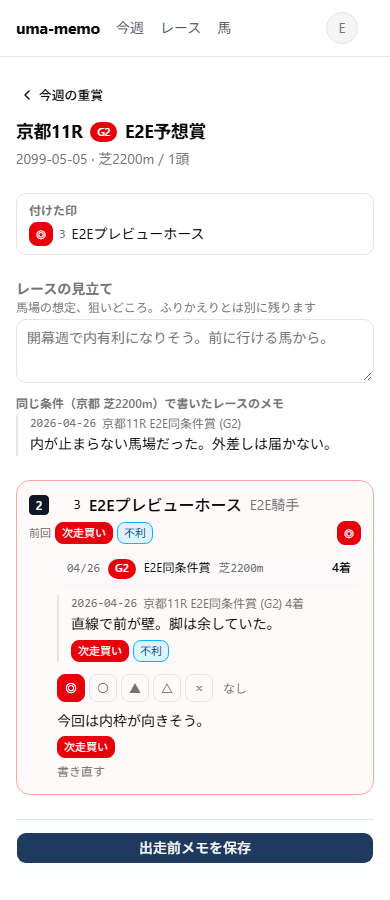
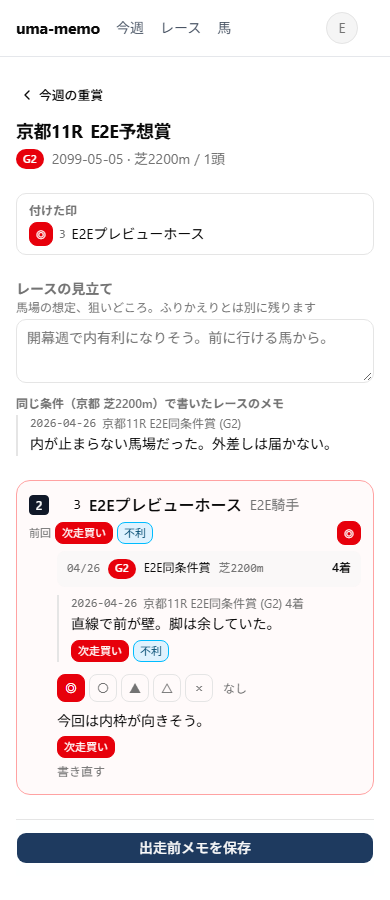
fix: レースの見出しと共有ページの札は元の位置に戻し、一覧の行だけ名前の前にする
1レースを開いた画面の見出し（ふりかえり・予想）と共有ページは並ぶ行ではないので、
札の位置は従来どおりにする。名前の前にそろえるのは、ダッシュボード・今週の重賞・
レース一覧・馬柱の行だけ。

Changed region(s): [[0.0308, 0.1244, 0.5231, 0.1867], [0.5231, 0.1556, 0.5846, 0.1867]]

diff --git a/src/lib/components/RaceHeading.svelte.spec.ts b/src/lib/components/RaceHeading.svelte.spec.ts
@@ -5,8 +5,8 @@ import '../../routes/layout.css';
 
 /**
  * 見出しはスマホ幅（320px）で崩れないことが要件。
- * レース名が長くても1行目の高さが変わらず、重賞の札がレース名の前に
- * 1行目のまま残ることを、実ブラウザ上の寸法で見る。
+ * レース名が長くても1行目の高さが変わらず、重賞の札が1行目に
+ * 混ざらないことを、実ブラウザ上の寸法で見る。
  */
 const PHONE = 320;
 
@@ -28,9 +28,7 @@ function h1() {
 }
 
 function spans() {
-	const [meeting] = Array.from(h1().children) as HTMLElement[];
-	const name = h1().querySelector<HTMLElement>('.truncate');
-	if (!name) throw new Error('レース名が無い');
+	const [meeting, name] = Array.from(h1().querySelectorAll('span'));
 	return { meeting, name };
 }
 
@@ -39,7 +37,7 @@ function badge() {
 }
 
 describe('RaceHeading', () => {
-	it('長いレース名だけを … で詰め、開催と重賞の札は1行目に最後まで出す', () => {
+	it('長いレース名だけを … で詰め、開催は最後まで出し、重賞の札は2行目に回す', () => {
 		narrow();
 		render(RaceHeading, {
 			meeting: '2026-10-04 東京11R',
@@ -66,13 +64,12 @@ describe('RaceHeading', () => {
 		expect(meeting.scrollWidth).toBe(meeting.clientWidth);
 		expect(meeting.textContent).toBe('2026-10-04 東京11R');
 
-		// 札は1行目の中にいて、開催とレース名のあいだに並ぶ。
-		const g = badge()!.getBoundingClientRect();
-		expect(badge()?.textContent?.trim()).toBe('G2');
-		expect(g.top).toBeGreaterThanOrEqual(h1().getBoundingClientRect().top);
-		expect(g.bottom).toBeLessThanOrEqual(h1().getBoundingClientRect().bottom);
-		expect(g.left).toBeGreaterThanOrEqual(meeting.getBoundingClientRect().right);
-		expect(g.right).toBeLessThanOrEqual(name.getBoundingClientRect().left);
+		// 札の上端が見出しの下端より下にある＝別の行にいる。
+		const g = badge();
+		expect(g?.textContent?.trim()).toBe('G2');
+		expect(g!.getBoundingClientRect().top).toBeGreaterThanOrEqual(
+			h1().getBoundingClientRect().bottom
+		);
 	});
 
 	it('短いレース名は詰めない', () => {
@@ -98,6 +95,5 @@ describe('RaceHeading', () => {
 		});
 
 		expect(h1().textContent?.trim()).toBe('2026-10-04 東京8R');
-		expect(badge()).toBeNull();
 	});
 });

diff --git a/src/lib/components/RaceHeading.svelte b/src/lib/components/RaceHeading.svelte
@@ -8,8 +8,9 @@
 	 * 幅が足りないときに … で詰まるのはレース名だけで、開催は最後まで出す。
 	 * どのレースを開いているかは開催のほうで分かるため。
 	 *
-	 * 格の札は、どの画面とも同じく**レース名の前**に置く（product.md 第6章）。
-	 * 札は縮めないので、長い名前でも札が2行目に回ることはなく、詰まるのは名前だけ。
+	 * 重賞の札は1行目に置かない。スマホ幅だとレース名の長さ次第で札だけが
+	 * 2行目に回り、見出しの高さがレースごとに変わってしまうので、
+	 * はじめから2行目（スペック行）の先頭に固定する。
 	 */
 	let {
 		meeting,
@@ -30,15 +31,16 @@
 <div>
 	<h1 class="flex items-baseline gap-2 text-lg font-bold tracking-tight sm:text-xl">
 		<span class="shrink-0">{meeting}</span>
-		{#if grade}
-			<!-- 見出しの文字の大きさに引きずられず、ほかの画面と同じ札に見せる。 -->
-			<span class="shrink-0 self-center leading-none"><GradeBadge {grade} /></span>
-		{/if}
 		{#if name}
 			<span class="truncate" title={name}>{name}</span>
 		{/if}
 	</h1>
-	{#if spec}
-		<p class="mt-1 truncate text-sm text-muted-foreground">{spec}</p>
+	{#if grade || spec}
+		<p class="mt-1 flex items-center gap-2 text-sm text-muted-foreground">
+			<GradeBadge {grade} />
+			{#if spec}
+				<span class="truncate">{spec}</span>
+			{/if}
+		</p>
 	{/if}
 </div>

diff --git a/src/routes/notes/[id]/+page.svelte b/src/routes/notes/[id]/+page.svelte
@@ -12,8 +12,8 @@
 	 * 1件で閉じていること自体が「検索で辿り着けない」を支えている。
 	 * **アプリ内へのリンク、同じ著者の他のメモ、一覧への戻りは出さない**（product.md 第6章）。
 	 */
-	const meeting = $derived(
-		[n.raceDate, n.course && n.raceNumber ? `${n.course}${n.raceNumber}R` : n.course]
+	const raceLine = $derived(
+		[n.raceDate, n.course && n.raceNumber ? `${n.course}${n.raceNumber}R` : n.course, n.raceName]
 			.filter(Boolean)
 			.join(' ')
 	);
@@ -27,12 +27,10 @@
 
 <main class="mx-auto max-w-2xl px-4 py-10 sm:px-6">
 	<article class="rounded-lg border border-gray-200 p-5 sm:p-6">
-		{#if meeting || n.raceName}
-			<!-- 格の札はどの画面でもレース名の前（product.md 第6章）。 -->
+		{#if raceLine}
 			<p class="flex flex-wrap items-center gap-2 text-sm text-gray-600">
-				{#if meeting}<span>{meeting}</span>{/if}
+				<span>{raceLine}</span>
 				<GradeBadge grade={n.grade} />
-				{#if n.raceName}<span>{n.raceName}</span>{/if}
 			</p>
 		{/if}
 

diff --git a/e2e/races.e2e.ts b/e2e/races.e2e.ts
@@ -78,7 +78,7 @@ test('開催済みのレースはふりかえりが開く', async ({ page }) => 
 	await expect(page.getByText('ペース、馬場、展開など「レースの性質」')).toBeVisible();
 });
 
-/** 格の札はどの画面でもレース名の**前**（product.md 第6章）。ダッシュボードと同じ並び。 */
+/** 格の札は一覧の行ではレース名の**前**（product.md 第6章）。ダッシュボードと同じ並び。 */
 test('今週の重賞とレース一覧で、格の札がレース名の前に出る', async ({ page }) => {
 	await login(page);
 	const { upcoming } = THIS_WEEK_RACES;

diff --git a/src/lib/components/PastRuns.svelte b/src/lib/components/PastRuns.svelte
@@ -43,7 +43,7 @@
 		{#each runs as r (r.raceId)}
 			<li class="flex flex-wrap items-baseline gap-x-2 py-1">
 				<span class="font-mono text-muted-foreground">{md(r.date)}</span>
-				<!-- 格の札はどの画面でもレース名の前（product.md 第6章）。
+				<!-- 格の札は一覧の行ではレース名の前（product.md 第6章）。
 				     重賞は格の札で足りるが、**条件戦は条件そのものがレースの識別子**。
 				     格が無いときだけクラスを札と同じ位置に出す（両方出すと重複して見える）。 -->
 				<GradeBadge grade={r.grade} />

diff --git a/src/routes/races/+page.svelte b/src/routes/races/+page.svelte
@@ -58,7 +58,7 @@
 						<div class="flex flex-wrap items-baseline gap-x-2 gap-y-1">
 							<span class="font-mono text-sm text-gray-500">{r.date}</span>
 							<span class="text-sm">{r.course}{r.raceNumber ?? ''}R</span>
-							<!-- 格の札はどの画面でもレース名の前（product.md 第6章）。
+							<!-- 格の札は一覧の行ではレース名の前（product.md 第6章）。
 							     条件戦のクラスは札の代わりなので、同じ位置に置く。 -->
 							{#if r.grade}
 								<GradeBadge grade={r.grade} />

diff --git a/src/routes/this-week/+page.svelte b/src/routes/this-week/+page.svelte
@@ -96,7 +96,7 @@
 								<span class="font-mono text-sm text-muted-foreground">
 									{r.course}{r.raceNumber ?? ''}R
 								</span>
-								<!-- 格の札はどの画面でもレース名の前（product.md 第6章）。 -->
+								<!-- 格の札は一覧の行ではレース名の前（product.md 第6章）。 -->
 								<GradeBadge grade={r.grade} />
 								<span class="font-medium">{r.name ?? '（レース名未設定）'}</span>
 							</div>

diff --git a/src/routes/races/[id]/+page.svelte b/src/routes/races/[id]/+page.svelte
@@ -31,7 +31,6 @@
 	const spec = $derived(
 		[
 			// 重賞は見出しの格の札で分かるが、条件戦は条件がレースの識別子になる。
-			// クラスは札より長いので1行目には置かない（名前が詰まる。product.md 第6章）。
 			data.race.grade ? '' : (data.race.className ?? ''),
 			data.race.surface && data.race.distance
 				? `${data.race.surface}${data.race.distance}m`

diff --git a/docs/product.md b/docs/product.md
@@ -592,13 +592,14 @@ WHERE id = ?1 AND visibility = 'unlisted';
 ヘッダの右端はアバター1つ（アカウントメニュー）にまとめる。プロフィール・共有中・
 管理・ログアウトはその中に畳む。出しっぱなしにするのは毎回踏む導線（今週・レース・馬）だけ。
 
-**格の札（`GradeBadge`）は、レース名を出すどの画面でもレース名の前に置く。**
+**レースが行で並ぶ一覧では、格の札（`GradeBadge`）をレース名の前に置く。**
 名前だけではどの格の重賞か分からないので、名前を読む前に格が目に入るようにする。
-ダッシュボード・今週の重賞・レース一覧・レースの見出し（ふりかえり・予想）・馬柱・共有ページの
-すべてでそろえ、**画面ごとにずらさない**（札を探す位置が画面ごとに変わると、目が迷う）。
+ダッシュボードのレース欄・今週の重賞・レース一覧・馬柱のすべてでそろえ、**一覧ごとにずらさない**
+（縦に並んだ行を目で追うとき、札の位置が一覧ごとに変わると目が迷う）。
 条件戦のクラス（`1勝クラス` など）を札の代わりに出す一覧（レース一覧・馬柱）では、クラスも同じ位置に置く。
-レースの見出しだけは例外で、クラスは2行目の条件の先頭に出す。見出しの1行目は折り返さず
-名前を … で詰めるので、札より長いクラスを前に置くと、スマホ幅で名前がほとんど読めなくなる。
+1レースを開いた画面の見出し（ふりかえり・予想の `RaceHeading`）と共有ページは並ぶ行ではないので、
+この決まりの外に置く。見出しは札を2行目（条件の行）の先頭に（→ `RaceHeading` のコメント）、
+共有ページはレースの行の末尾に出す。
 
 ### `/` — ダッシュボードのレース欄
 
@@ -629,7 +630,7 @@ WHERE id = ?1 AND visibility = 'unlisted';
   ダッシュボードは自分が書く場所の目次なので、条件戦が落ちると歯抜けに見える
 - 3週より古いレースはここには出ない。探すのは `/races`（絞り込みつきの全件）
 - 格（G1〜G3・L・OP）のあるレースは、格の札（`GradeBadge`）を**レース名の前**に出す
-  （全画面の決まり → この章の冒頭）。`grade` が NULL のレース（条件戦）には何も付けない
+  （一覧の決まり → この章の冒頭）。`grade` が NULL のレース（条件戦）には何も付けない
 
 ### ★ `/races/[id]` — ふりかえり画面
 
@@ -664,7 +665,7 @@ WHERE id = ?1 AND visibility = 'unlisted';
 
 ```
 ┌──────────────────────────────────────────────┐
-│ 2026-09-20 中山11R  [G2] オールカマー        │
+│ 2026-09-20 中山11R  オールカマー (G2)        │
 │ 芝2200m / 右 / 良 / 晴                       │
 ├──────────────────────────────────────────────┤
 │ ■ レースのメモ                               │
@@ -843,7 +844,7 @@ SELECT ... FROM note WHERE id = ?1 AND visibility = 'unlisted'
 
 ```
 ┌──────────────────────────────────────────────┐
-│ 2026-09-20  中山11R [G2] オールカマー        │
+│ 2026-09-20  中山11R オールカマー(G2)         │
 │ ホースA  1着                                 │
 │                                              │
 │ 直線で外に出してから一完歩が速い。           │

diff --git a/docs/design-system.md b/docs/design-system.md
@@ -121,7 +121,7 @@ shadcn に無いので、`layout.css` の `:root` と `@theme inline` に shadcn
 
 | 部品 | 何を出すか |
 | --- | --- |
-| `GradeBadge` | グレード（G1 / G2 / G3 / L / OP）。どの画面でもレース名の前に置く（→ [product.md 第6章](./product.md)） |
+| `GradeBadge` | グレード（G1 / G2 / G3 / L / OP）。一覧の行ではレース名の前に置く（→ [product.md 第6章](./product.md)） |
 | `BracketBadge` | 枠番。色だけでなく必ず数字を出す |
 | `MarkBadge` / `MarkPicker` | 予想印（◎ ○ ▲ △ ×）の表示と選択 |
 | `TagBadges` / `TagPicker` | メモの札の表示と選択 |
